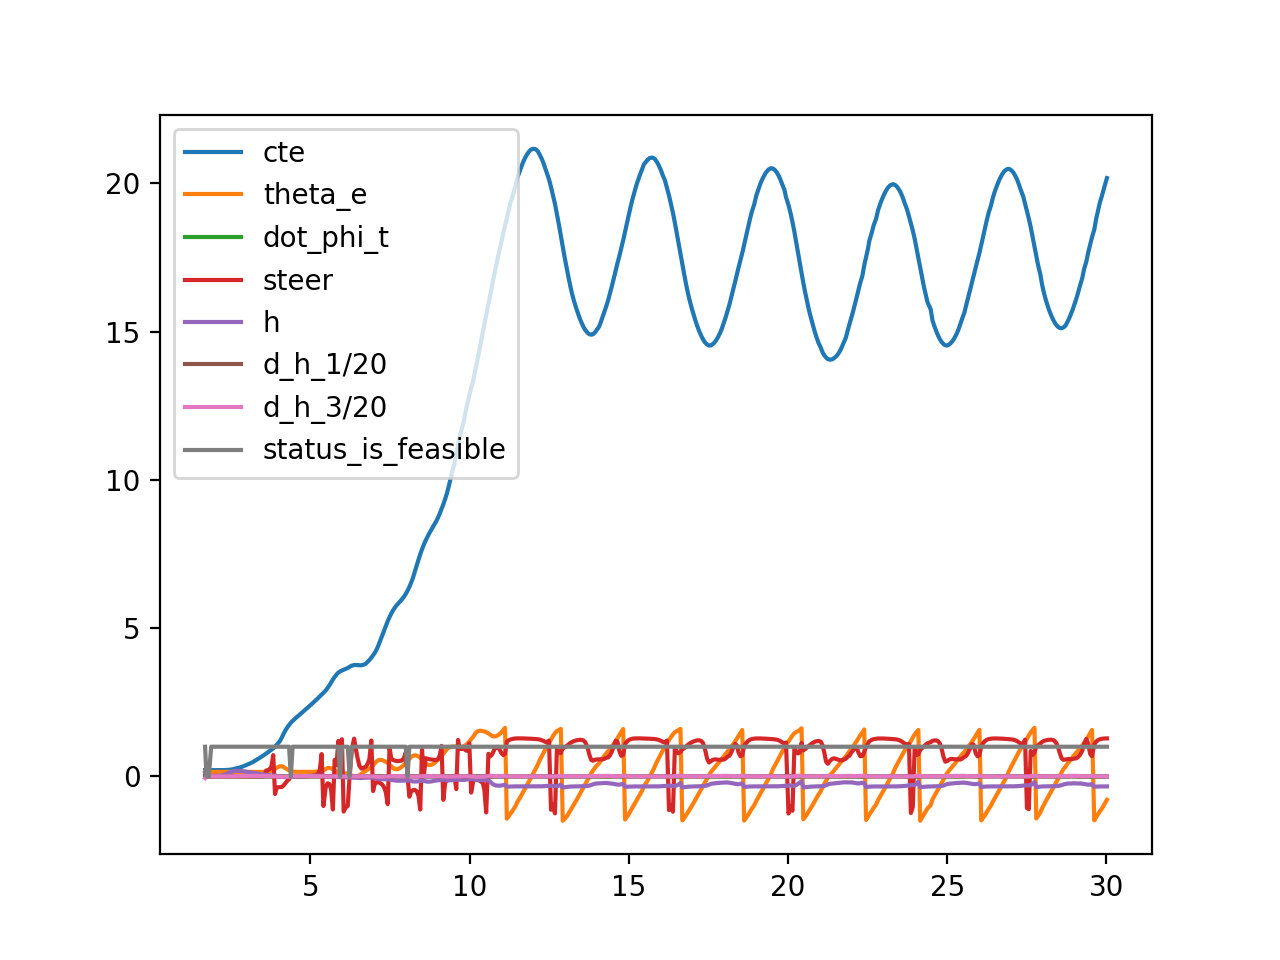
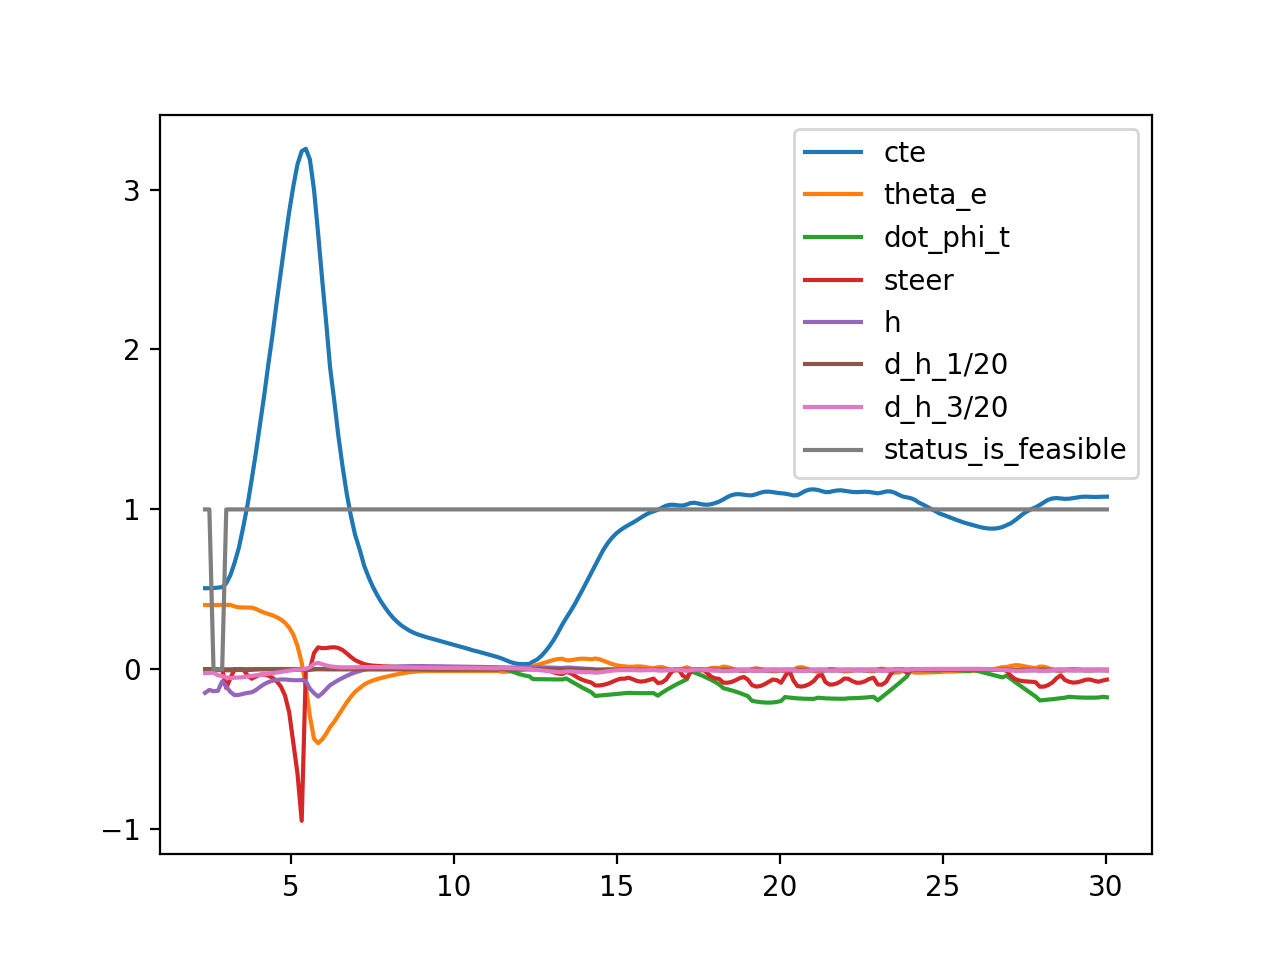
change network inference to CPU

diff --git a/carla/automatic_control_state_based_cbf_train_location_server_version.py b/carla/automatic_control_state_based_cbf_train_location_server_version.py
@@ -54,8 +54,8 @@ except IndexError:
 
 # OUTPUT_PATH = 'state_based_cbf_resulting_trajectory_local_wizdisplay_'
 OUTPUT_PATH = 'state_based_cbf_resulting_trajectory'
-DISPLAY = False
-ADD_PATH = True
+DISPLAY = True
+ADD_PATH = False
 
 if ADD_PATH:
     sys.path.append(glob.glob('../../../carla/dist/carla-0.9.9-py3.7-linux-x86_64.egg')[0])
@@ -83,7 +83,9 @@ from agents.navigation.roaming_agent_customized import RoamingAgent  # pylint: d
 # ==============================================================================
 
 os.environ['XLA_PYTHON_CLIENT_PREALLOCATE'] = 'false'
+# os.environ['XLA_PYTHON_CLIENT_ALLOCATOR'] = 'platform'
 os.environ['TF_FORCE_UNIFIED_MEMORY'] = '1'
+os.environ['CUDA_VISIBLE_DEVICES'] = '-1'
 PI = 3.1415926
 
 
@@ -711,8 +713,8 @@ def game_loop(args):
     initial_position_array[1] = waypoints_map[2000, 1]
     initial_position_array[2] = 180
 
-    list_init_cte = [0.4, 0, -0.4]
-    list_init_theta = [-0.15 / PI * 180, 0, 0.15 / PI * 180]
+    list_init_cte = [1.0, 0, -1.0]
+    list_init_theta = [-0.4 / PI * 180, 0, 0.4 / PI * 180]
 
     # load the trained cbf
     args_dict = load_json(ARGS_PATH)
@@ -859,7 +861,7 @@ def game_loop(args):
 
                 # calculate steer control from the learned cbf
                 steering_wheel_input, h, h_dire, feasible = safe_ctrl(jnp.array([cte, v, theta_e, d]), dot_phi_t)
-                if v < 5:
+                if v < 0:
                     control.steer = 0
                 else:
                     control.steer = np.arctan(steering_wheel_input[0]) / 70 * 180 / PI

diff --git a/carla/automatic_control_perception_based_cbf_train_location.py b/carla/automatic_control_perception_based_cbf_train_location.py
@@ -71,8 +71,9 @@ from agents.navigation.roaming_agent_customized import RoamingAgent  # pylint: d
 # ==============================================================================
 
 os.environ['XLA_PYTHON_CLIENT_PREALLOCATE'] = 'false'
-os.environ['XLA_PYTHON_CLIENT_ALLOCATOR'] = 'platform'
+# os.environ['XLA_PYTHON_CLIENT_ALLOCATOR'] = 'platform'
 os.environ['TF_FORCE_UNIFIED_MEMORY'] = '1'
+os.environ['CUDA_VISIBLE_DEVICES'] = '-1'
 front_camera_image = 0
 PI = 3.1415926
 
@@ -698,8 +699,8 @@ def game_loop(args):
     waypoints_map = npzfile['arr_2']
 
     initial_position_array = np.zeros((3, ))
-    initial_position_array[0] = waypoints_map[0, 0]
-    initial_position_array[1] = waypoints_map[0, 1]
+    initial_position_array[0] = waypoints_map[2000, 0]
+    initial_position_array[1] = waypoints_map[2000, 1]
     initial_position_array[2] = 180
 
     # store the results in a list to be plotted later
@@ -740,7 +741,7 @@ def game_loop(args):
 
         hud = HUD(args.width, args.height)
         world = World(client.load_world('Town06'), hud, args,
-                      initial_position_array[0], initial_position_array[1], initial_position_array[2])
+                      initial_position_array[0], initial_position_array[1] - 1.0, initial_position_array[2] + 0.4 / PI * 180)
         settings = world.world.get_settings()
         # lower the frequency of server simulation
         settings.fixed_delta_seconds = 0.015
